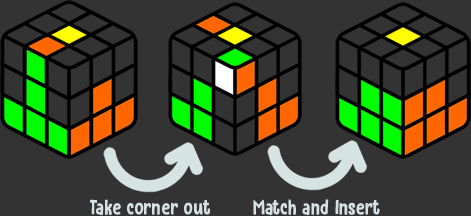
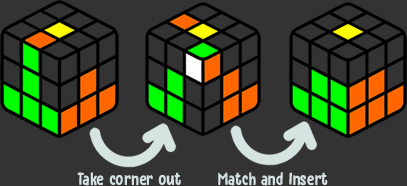
All artwork for F2L finished. Now to add move demonstrator and then LL!

diff --git a/src/tutorial/SecondLayerEdgesSection.java b/src/tutorial/SecondLayerEdgesSection.java
@@ -62,10 +62,6 @@ public class SecondLayerEdgesSection {
 							 "Now, when we've got the edge where we want it - above its location - we can solve " + 
 							 "it. We can solve this with one of two algorithms, depending on which way the edge " + 
 							 "is oriented.",
-							 
-							 "These two algorithms are very similar! In fact, the second algorithm is a \"mirror\" " + 
-							 "of the first algorithm (this means that all R moves become L moves and vice versa,  " + 
-							 "and all F and U moves swap direction).",
 
 							 "The first algorithm will be used when the side of the edge facing us matches the " + 
 							 "centre below it. This algorithm will insert this edge into its location without " + 
@@ -80,13 +76,32 @@ public class SecondLayerEdgesSection {
 							 "The second algorithm will be used when the side of the edge facing us does not match "+
 							 "the centre below it. This algorithm will do the same as the previous one, but just from "+
 							 "the other side of the puzzle.",
+							 
+							 "We solve this in the same way but with slight different moves: First, we take the corner "+
+							 "out using the following moves...",
+							 
+							 "...and then we pair it up with the edge and insert the whole pair back into the slot.",
+							 
+							 "If an edge is inserted into the wrong location, simply rotate so that the slot is in the "+
+							 "front position and perform the first algorithm to get the edge out. That long algorith from "+
+							 "earlier is doing just that!",
 
-				
+							 "Now let's try it with your scramble: Place the first edge above its location with the moves "+
+							 "below...",
+							 
+							 "Nice! Now, let's insert that edge using the correct algorithm from the two we just saw: ",
+							 "........................................................................................",
+							 "........................................................................................",
+							 "........................................................................................",
+							 "........................................................................................",
+							 "........................................................................................",
+							 "........................................................................................"
 		};
 		
-		String[] resources = {"solvedF2L.png", "NULL", "edgeLocationF2L.png", "twoCasesF2L.png", "topLayerF2L.png", "middleLayerF2L.png", 
-							  "edgeOrientationsF2L.png", "mirrorAlgF2L.png", "insertEdgeF2LOverview.png", "insertEdgeOneF2L.png", 
-							  "insertEdgeTwoF2L.png"};
+		String[] resources = {"solvedF2L.png", "NULL", "edgeLocationF2L.png", "twoCasesF2L.png", "topLayerF2L.png", 
+							  "middleLayerF2L.png", "edgeOrientationsF2L.png", "insertEdgeOverviewF2L.png", 
+							  "insertEdgeOneF2L.png", "insertEdgeTwoF2L.png", "insertEdgeOverviewBF2L.png", 
+							  "insertEdgeThreeF2L.png", "insertEdgeFourF2L.png", "middleLayerBF2L.png"};
 
 		bodyCount = 0;
 		seqOut.playFromStart();
@@ -133,7 +148,7 @@ public class SecondLayerEdgesSection {
  	    	@Override
  	    	public void handle(ActionEvent event) {
  	    		System.out.println("BODY COUNT IS:"+bodyCount);
- 	    		if (bodyCount <= 10) {
+ 	    		if (bodyCount <= 14) {
  	    			if (forwardOrBack) {
 	 	    			bodyCount = SharedToolbox.bodyCountInc(bodyCount);
 	 	       			elements.get(1).setText(bodyText[bodyCount]);
